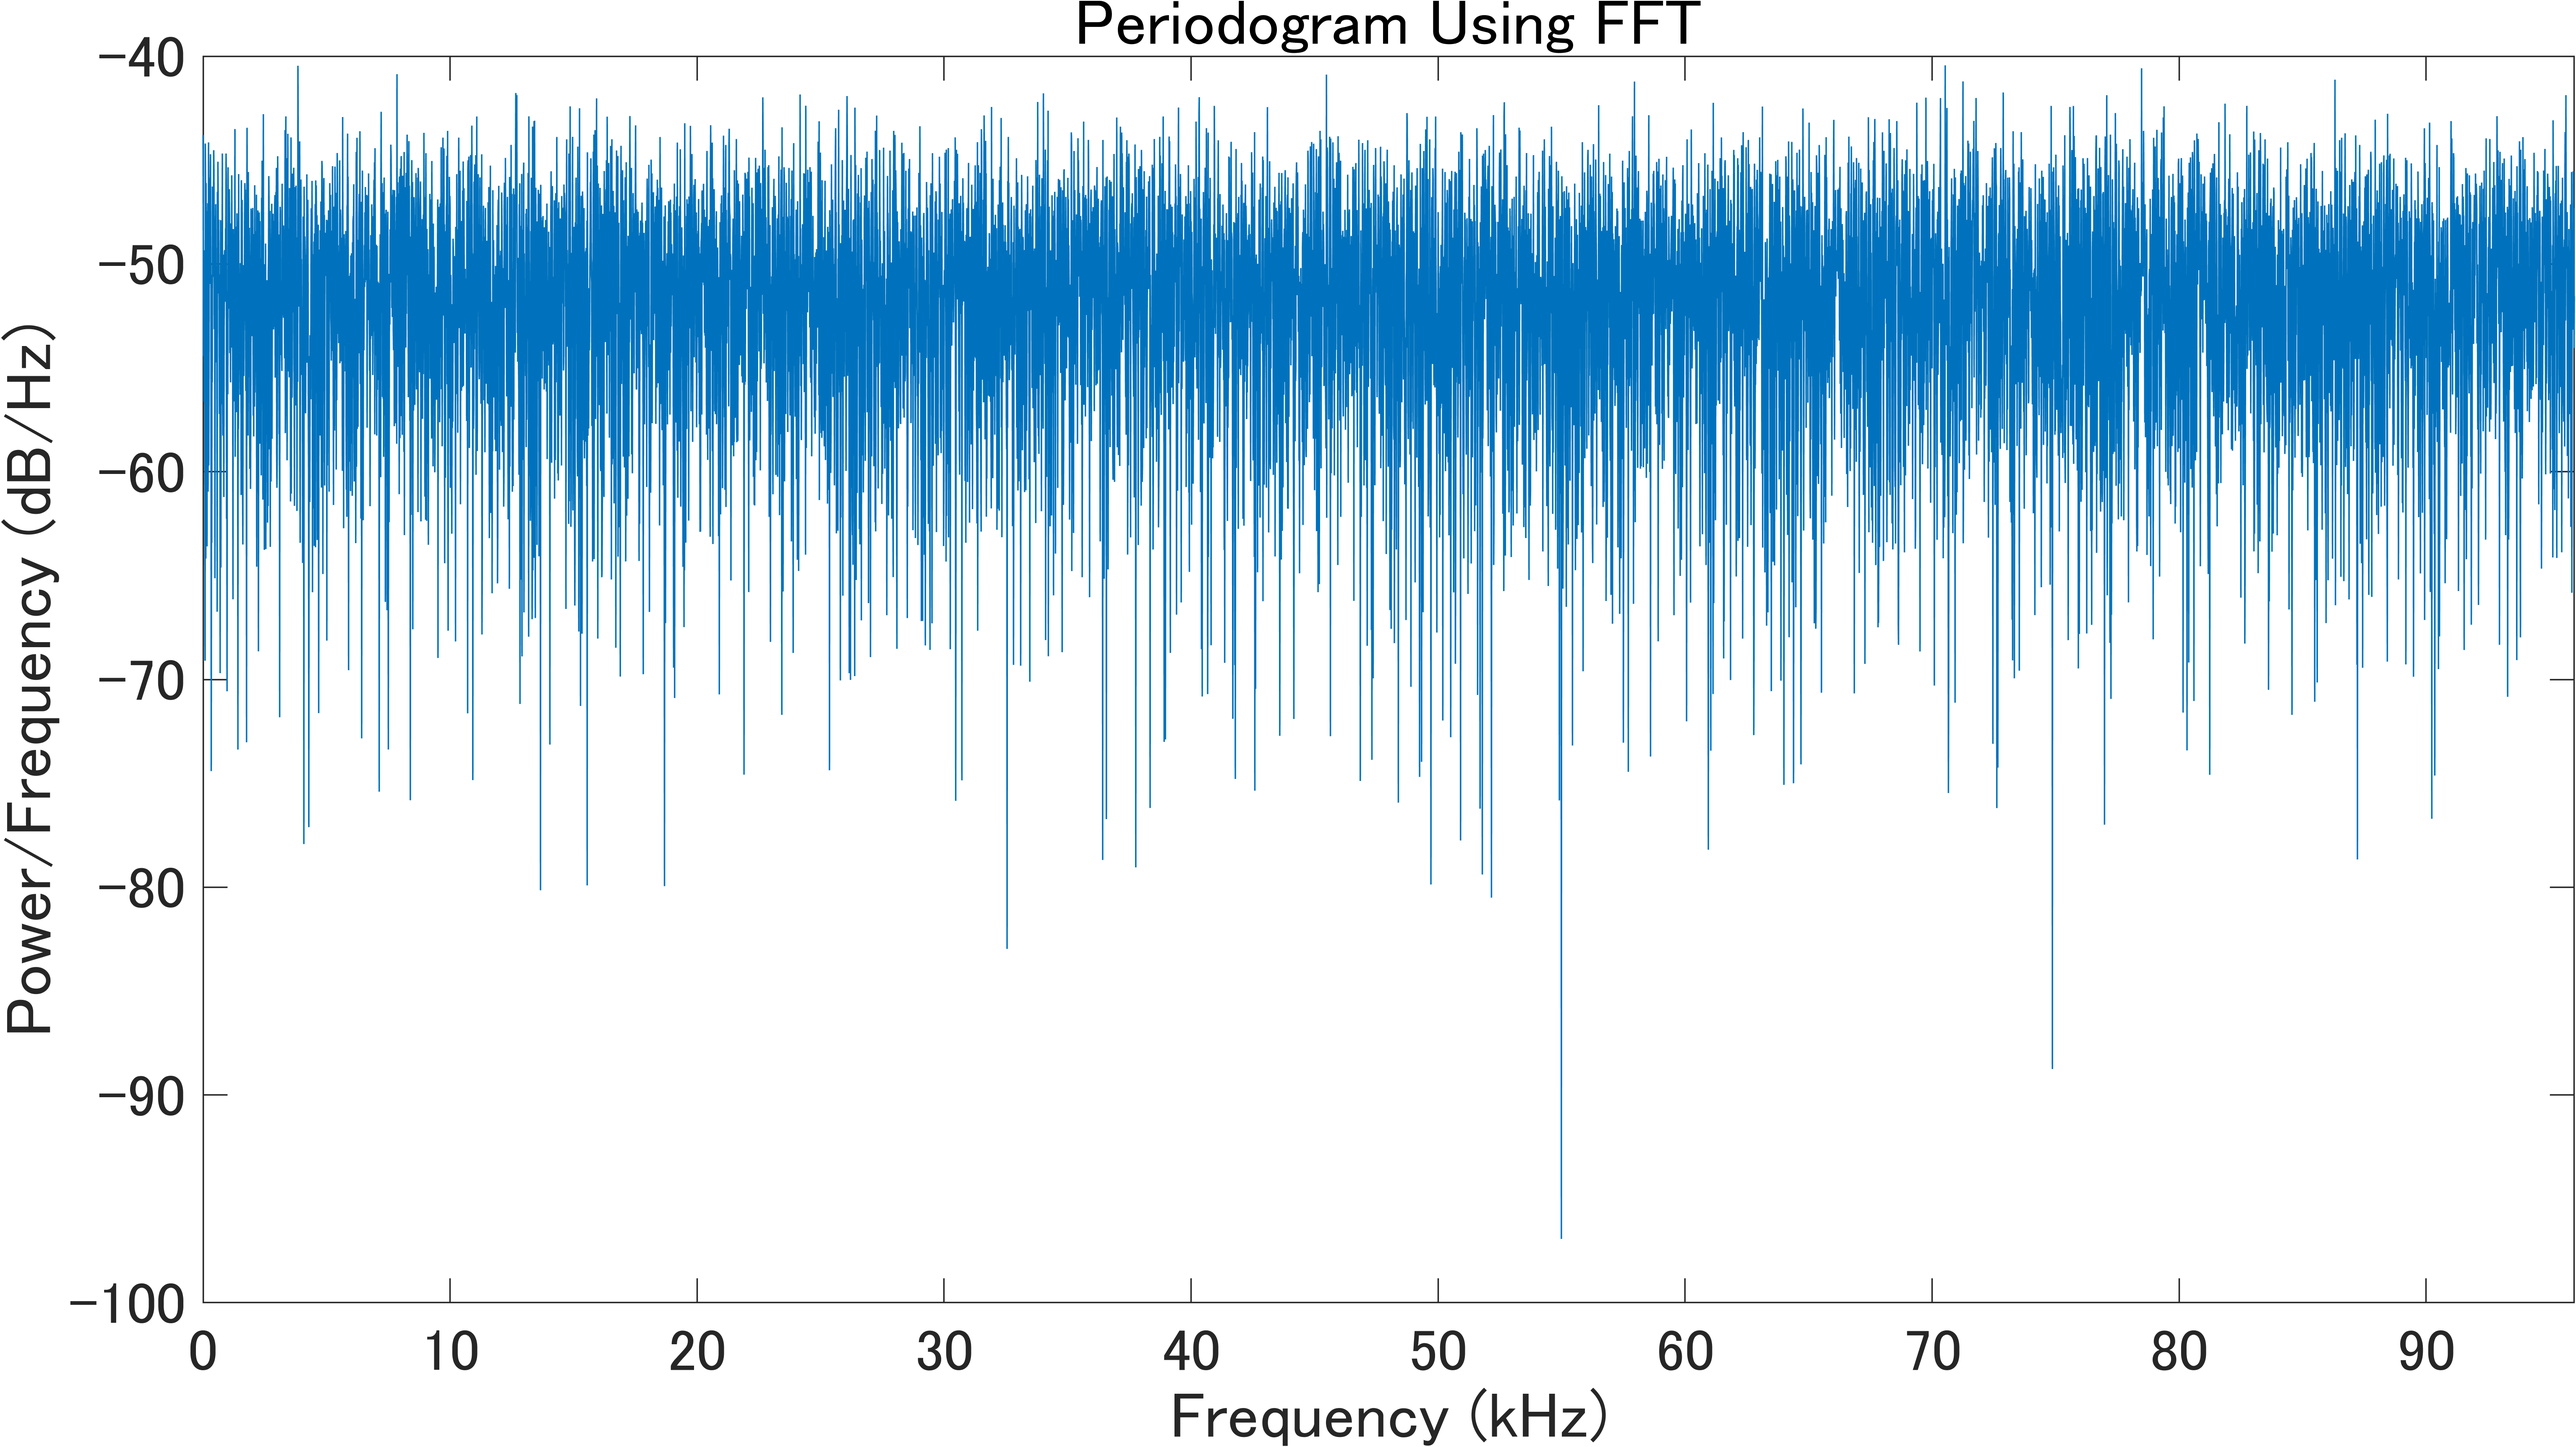
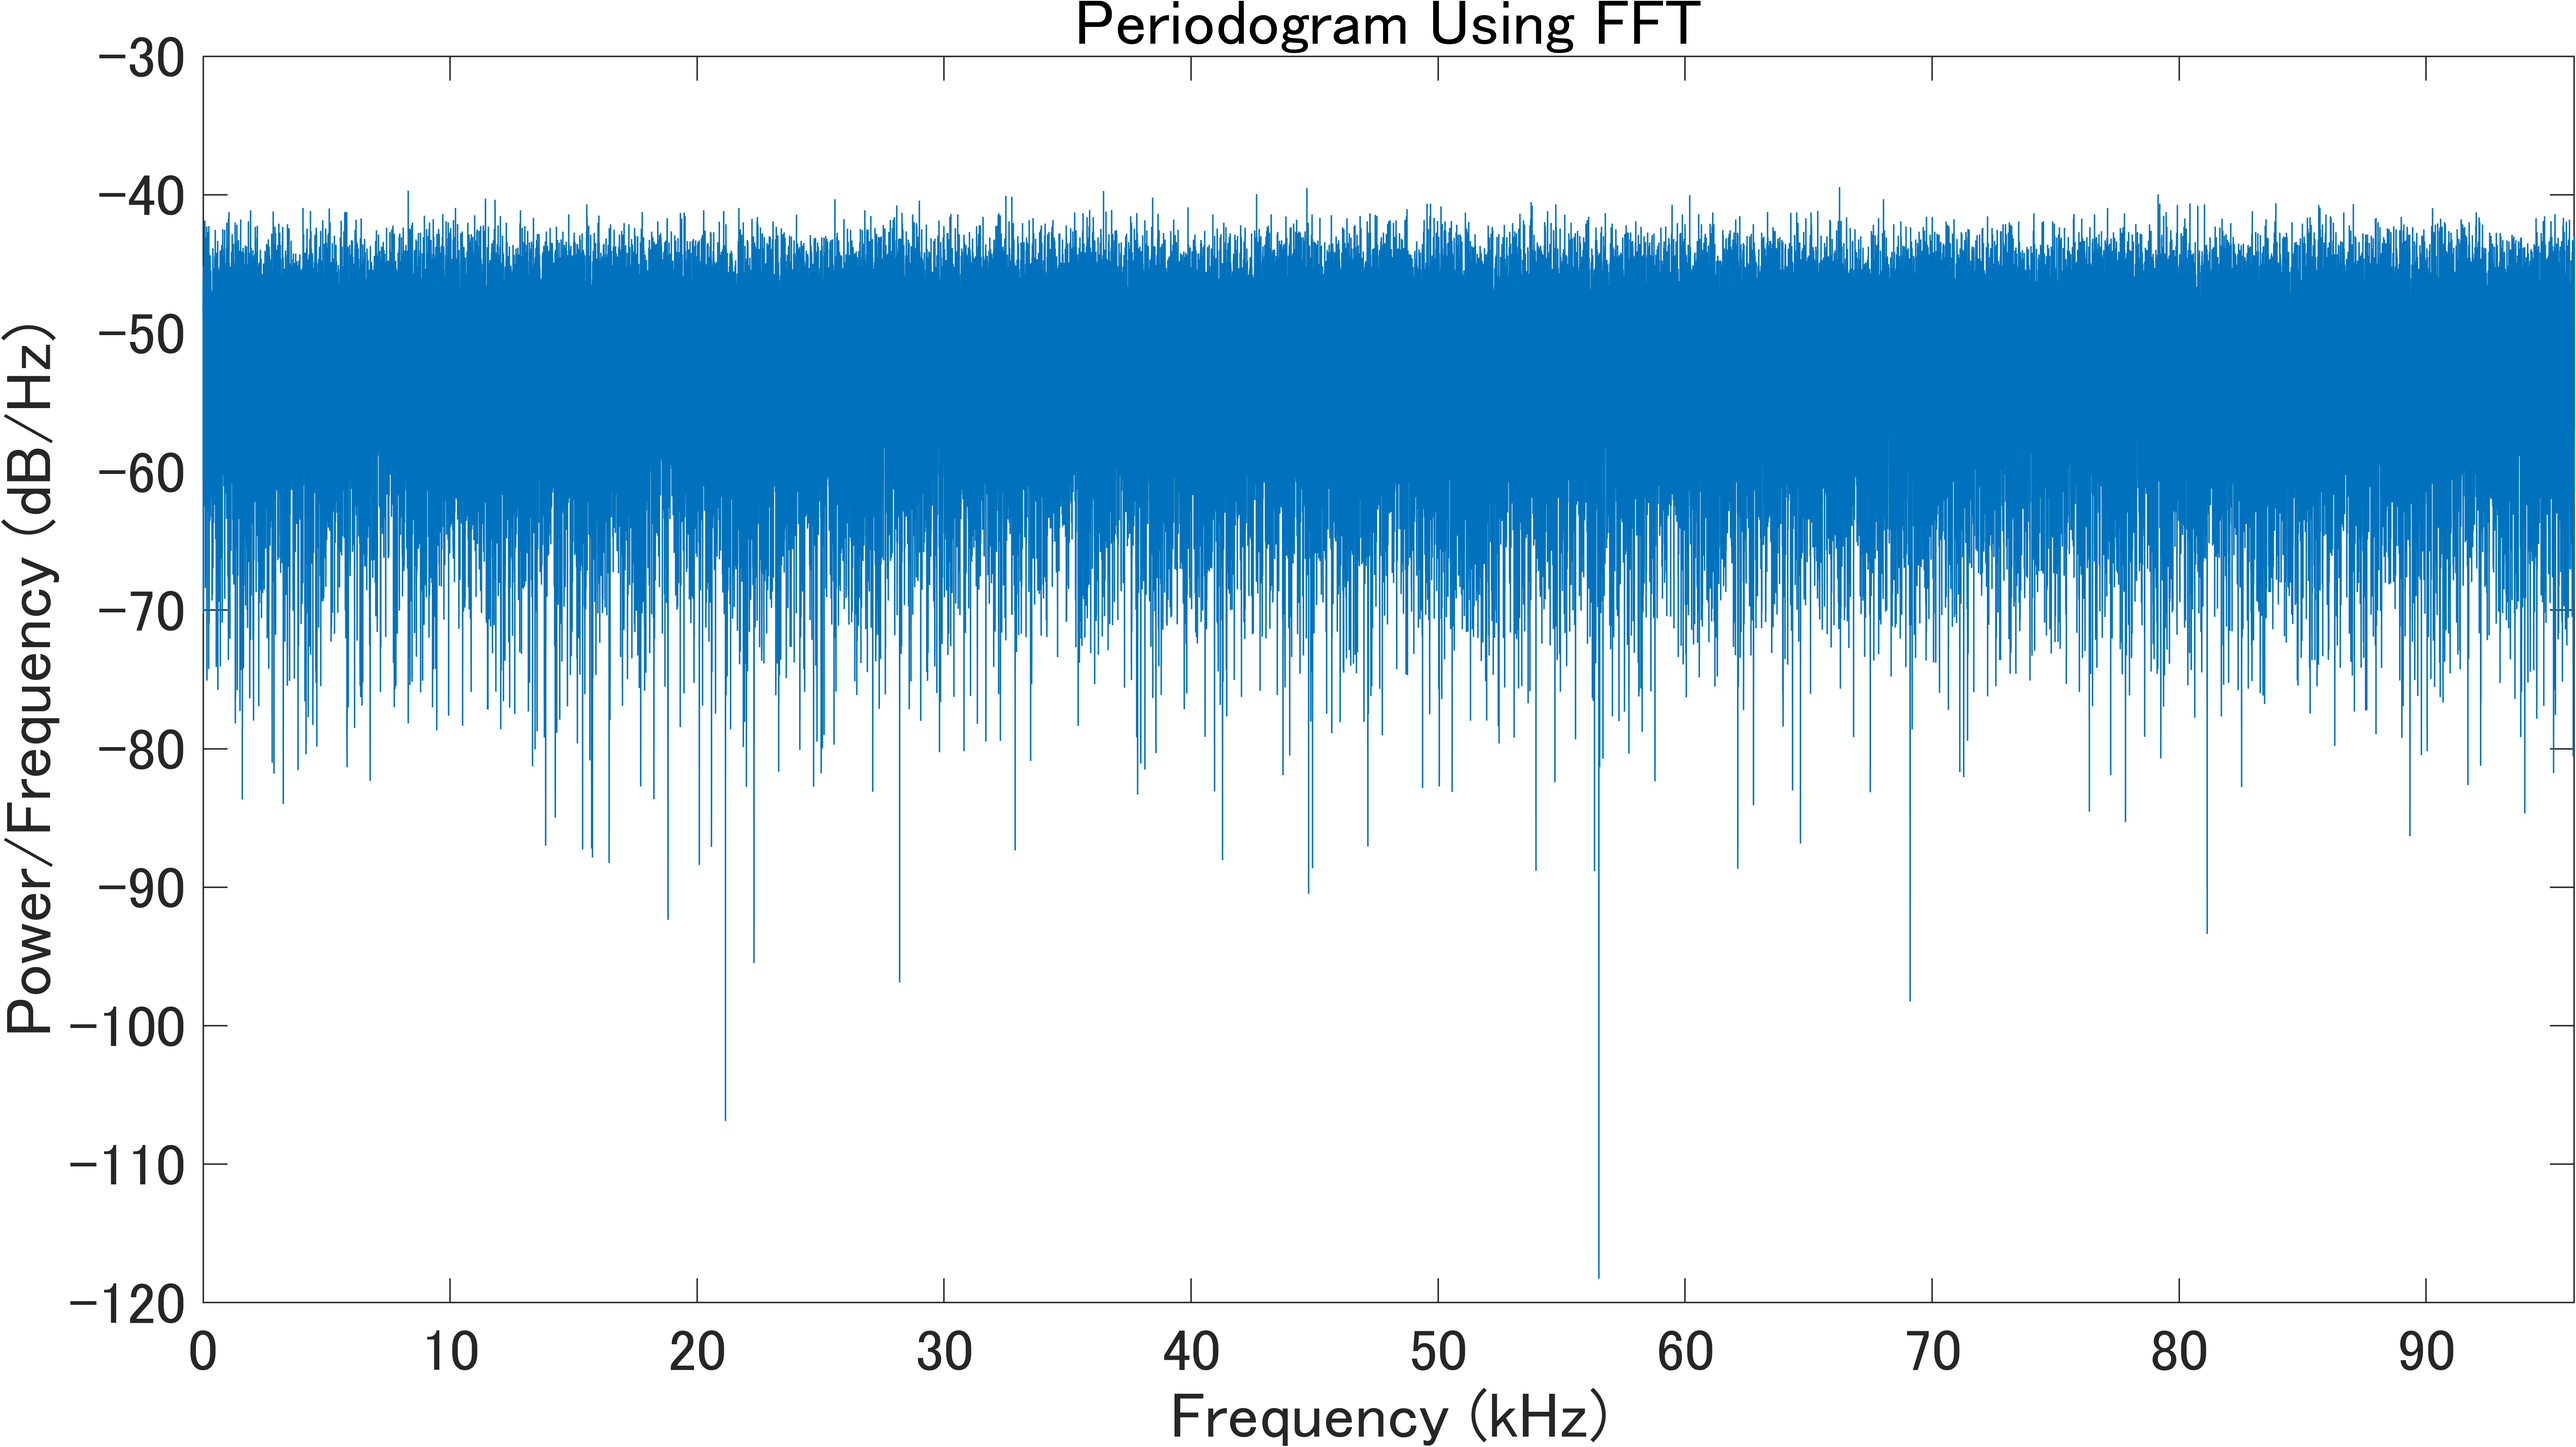
ソースコードの変更

diff --git a/2021/power_spectral_density.m b/2021/power_spectral_density.m
@@ -1,14 +1,12 @@
 %% 一つ目の白色ガウスノイズの定数定義
-deltaF_1 = 10;
 fs_1 = 192e3;
-N_1 = fs_1 / deltaF_1;
-T_1 = N_1 / fs_1;
+T_1 = 1;
+N_1 = fs_1 * T_1;
 
 %% 二つ目の白色ガウスノイズの定数定義
-deltaF_2 = 10;
 fs_2 = 192e3 / 2;
-N_2 = fs_2 / deltaF_2;
-T_2 = N_2 / fs_2;
+T_2 = 1;
+N_2 = fs_2 * T_2;
 
 %% ガウスノイズの作成 パワーが約 1 ワット (0 dBW)
 y1_wgn = wgn( N_1 , 1 , 0 );
@@ -128,16 +126,14 @@ fprintf('var = %f , power = %f[W] \n',var(y1_wgn) ,sum( psdx_1 ) );
 fprintf('var = %f , power = %f[W] \n',var(y2_wgn) ,sum( psdx_2 ) );
 
 %% 一つ目の白色ガウスノイズの定数定義
-deltaF_1 = 30;
 fs_1 = 192e3;
-N_1 = fs_1 / deltaF_1;
-T_1 = N_1 / fs_1;
+T_1 = 1;
+N_1 = fs_1 * T_1;
 
 %% 二つ目の白色ガウスノイズの定数定義
-deltaF_2 = 30;
-fs_2 = 192e3 / 5;
-N_2 = fs_2 / deltaF_2;
-T_2 = N_2 / fs_2;
+fs_2 = 192e3 / 2;
+T_2 = 1;
+N_2 = fs_2 * T_2;
 
 
 %% ガウスノイズの作成 パワーが約 100ワット (20 dBW)
